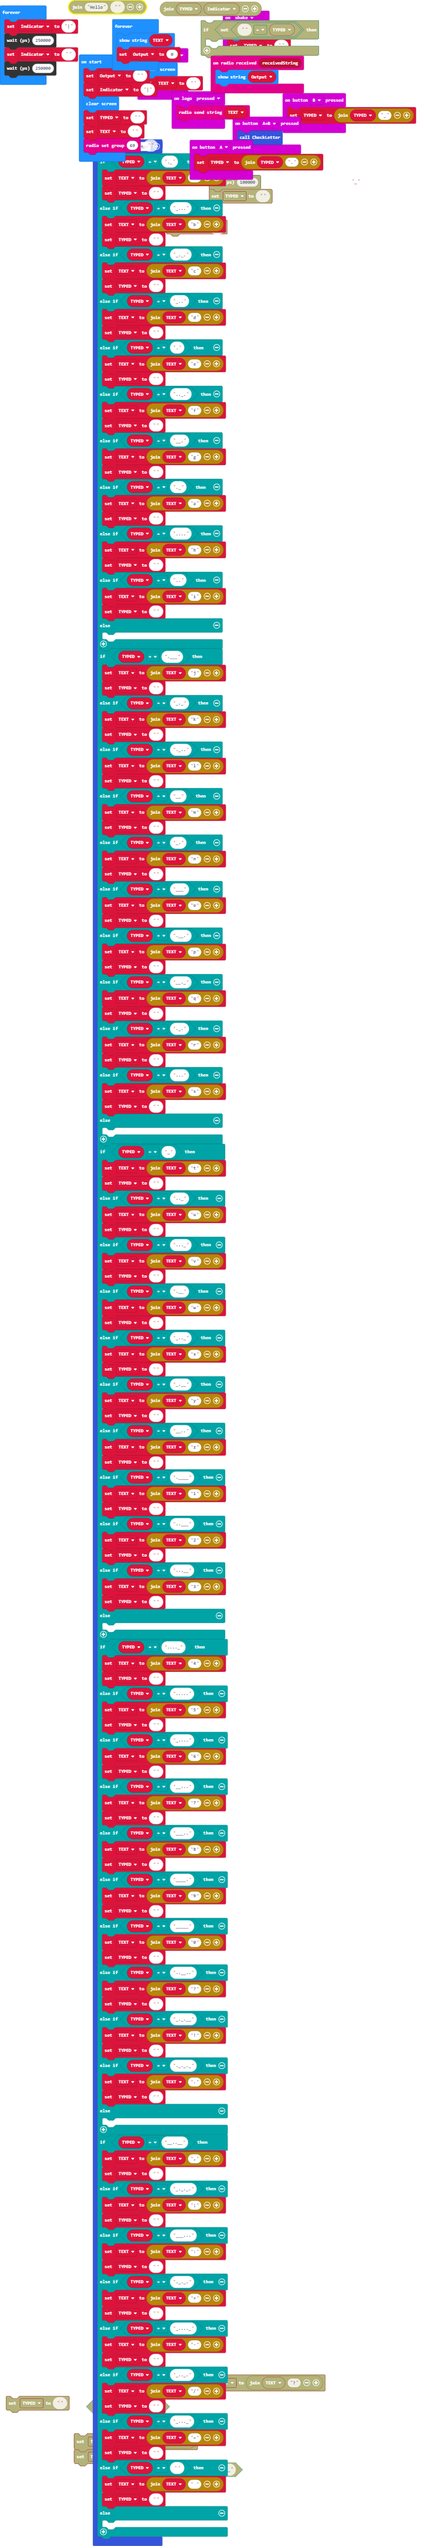
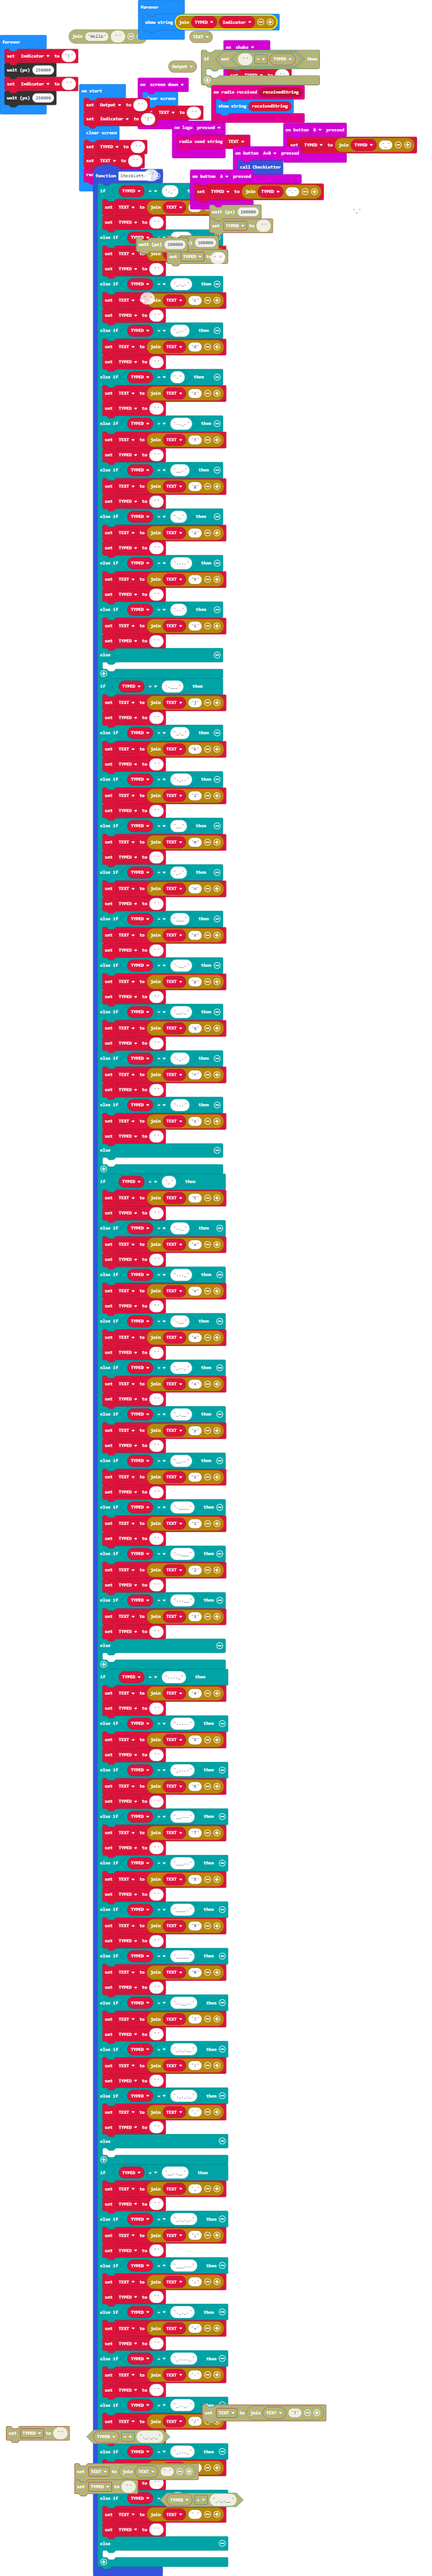
Update main.blocks, main.ts

Changed region(s): [[0.0, 0.0, 0.9596, 1.0]]

diff --git a/main.ts b/main.ts
@@ -170,7 +170,7 @@ input.onButtonPressed(Button.AB, function () {
     CheckLetter()
 })
 radio.onReceivedString(function (receivedString) {
-    basic.showString(Output)
+    basic.showString(receivedString)
 })
 input.onButtonPressed(Button.B, function () {
     TYPED = "" + TYPED + "_"
@@ -185,19 +185,17 @@ input.onLogoEvent(TouchButtonEvent.Pressed, function () {
 let TEXT = ""
 let TYPED = ""
 let Output = ""
-Output = ""
 let Indicator = "|"
 basic.clearScreen()
 TYPED = ""
 TEXT = ""
 radio.setGroup(69)
 basic.forever(function () {
+    basic.showString("" + TYPED + Indicator)
+})
+basic.forever(function () {
     Indicator = "|"
     control.waitMicros(250000)
     Indicator = ""
     control.waitMicros(250000)
-})
-basic.forever(function () {
-    basic.showString(TEXT)
-    Output = 0
 })
